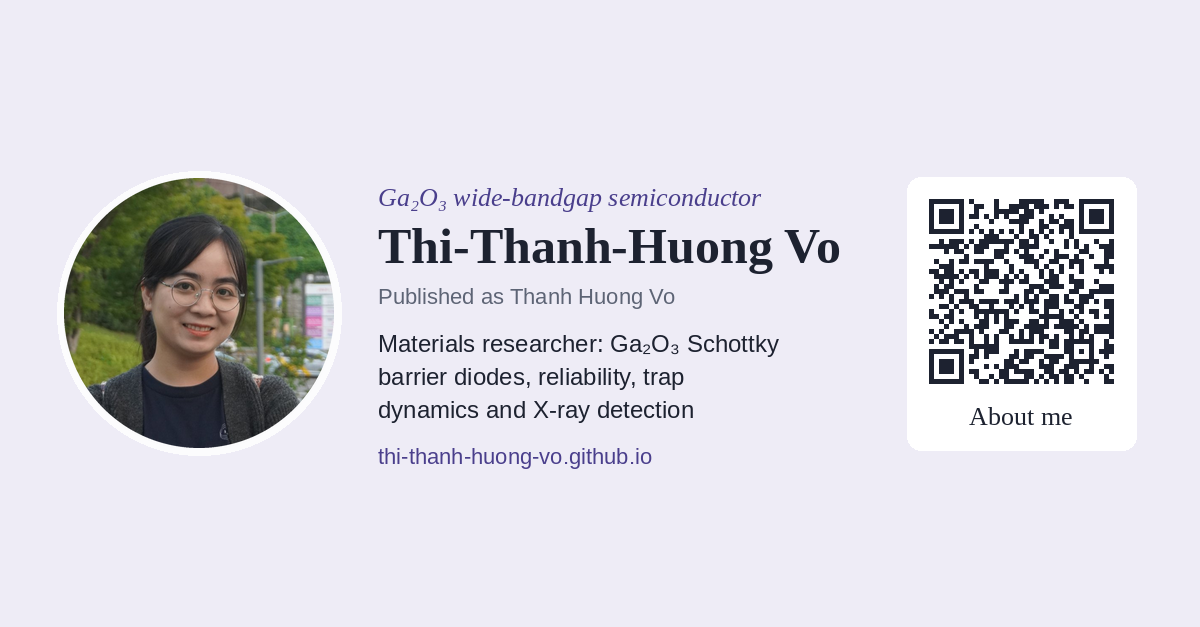
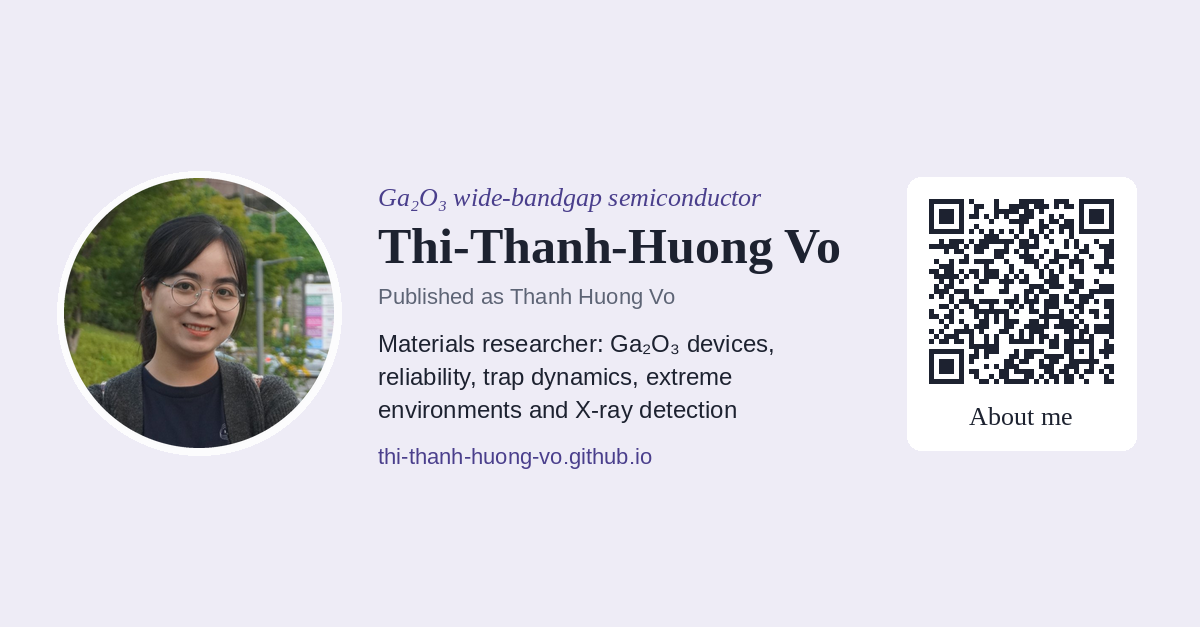
Add files via upload

Changed region(s): [[0.3083, 0.5152, 0.6475, 0.6667]]

diff --git a/index.html b/index.html
@@ -4,12 +4,12 @@
 <meta charset="utf-8">
 <meta name="viewport" content="width=device-width, initial-scale=1, viewport-fit=cover">
 <title>Thi-Thanh-Huong Vo — Ga₂O₃ Researcher</title>
-<meta name="description" content="Thi-Thanh-Huong Vo (published as Thanh Huong Vo) — researcher in β-Ga₂O₃ Schottky barrier diodes, reliability, and X-ray detection. CV, publications, ORCID and LinkedIn.">
+<meta name="description" content="Thi-Thanh-Huong Vo (published as Thanh Huong Vo) — researcher in Ga₂O₃ devices, reliability, extreme environments and X-ray detection. CV, publications, ORCID and LinkedIn.">
 <link rel="canonical" href="https://thi-thanh-huong-vo.github.io/">
 <meta property="og:type" content="website">
 <meta property="og:url" content="https://thi-thanh-huong-vo.github.io/">
 <meta property="og:title" content="Thi-Thanh-Huong Vo | Ga₂O₃ Researcher">
-<meta property="og:description" content="Materials researcher working on Ga₂O₃ Schottky barrier diodes: reliability, trap dynamics, high-temperature behavior and X-ray detection. Publications, talks and contact.">
+<meta property="og:description" content="Materials researcher working on Ga₂O₃ devices: reliability, trap dynamics, device behavior in extreme environments and X-ray detection. Publications, talks and contact.">
 <meta property="og:image" content="https://thi-thanh-huong-vo.github.io/og-image.png">
 <meta property="og:image:width" content="1200">
 <meta property="og:image:height" content="627">
@@ -64,7 +64,7 @@
     margin-inline: calc(50% - 50vw);
     padding-inline: calc(50vw - 50%);
   }
-  header { background: var(--band-head); padding-top: 3.5rem; padding-bottom: 2.5rem; }
+  header { background: var(--band-head); padding-top: 1.25rem; padding-bottom: 2.5rem; }
   .intro { display: flex; align-items: center; gap: 1.75rem; }
   .avatar {
     width: 136px; height: 136px; flex: none; border-radius: 50%;
@@ -122,7 +122,7 @@
   .entry .what .tag { display: inline-block; color: var(--accent); font-size: 0.78rem; }
   .entry .what span { display: block; color: var(--muted); font-size: 0.95rem; }
   @media (max-width: 34rem) {
-    header { padding-top: 2.5rem; }
+    header { padding-top: 1rem; }
     .entry { grid-template-columns: 1fr; gap: 0; }
   }
 
@@ -136,6 +136,13 @@
   .entry .what .talk-title { font-family: "Source Serif 4", Georgia, serif; font-style: italic; color: var(--ink); }
   .entry .what .award { color: var(--accent); font-weight: 600; }
   .news { display: inline-block; margin-top: 0.2rem; font-size: 0.92rem; }
+  .lang-switch { display: flex; justify-content: flex-end; gap: 0.25rem; margin-bottom: 0.75rem; }
+  .lang-switch button {
+    font: inherit; font-size: 0.85rem; font-weight: 600; letter-spacing: 0.04em;
+    padding: 0.3rem 0.7rem; min-height: 36px; border-radius: 6px; cursor: pointer;
+    border: 1px solid var(--rule); background: var(--paper); color: var(--muted);
+  }
+  .lang-switch button[aria-pressed="true"] { background: var(--accent); border-color: var(--accent); color: var(--paper); }
   /* Chặn bôi đen chữ; link và nút vẫn bấm được. Riêng chân trang (email) vẫn bôi đen được. */
   body { -webkit-user-select: none; user-select: none; }
   footer, footer a { -webkit-user-select: text; user-select: text; }
@@ -145,6 +152,10 @@
 <main>
 
 <header>
+  <div class="lang-switch" role="group" aria-label="Language">
+    <button type="button" data-lang="en" aria-pressed="true">EN</button>
+    <button type="button" data-lang="vi" aria-pressed="false">VI</button>
+  </div>
   <div class="intro">
     <img class="avatar" src="photo.jpg" alt="Portrait of Thi-Thanh-Huong Vo" width="136" height="136">
     <div>
@@ -153,7 +164,7 @@
       <p class="pubname">Published as Thanh Huong Vo</p>
     </div>
   </div>
-  <p class="role">Materials researcher working on Ga₂O₃ Schottky barrier diodes: reliability, trap dynamics, high-temperature behavior and X-ray detection.</p>
+  <p class="role">Materials researcher working on Ga₂O₃ devices: reliability, trap dynamics, device behavior in extreme environments and X-ray detection.</p>
   <nav class="links" aria-label="Profiles and contact">
     <a class="btn primary" href="mailto:vohuong2702@gmail.com?subject=CV%20request&amp;body=Dear%20Ms.%20Vo%2C%0A%0AI%20visited%20your%20website%20and%20I%20am%20interested%20in%20your%20research%20on%20Ga2O3%20devices.%20Could%20you%20please%20share%20a%20copy%20of%20your%20CV%20with%20me%3F%0A%0AThank%20you%2C%20and%20best%20regards%2C">
       <svg viewBox="0 0 24 24" fill="none" stroke="currentColor" stroke-width="2" stroke-linecap="round" stroke-linejoin="round" aria-hidden="true"><path d="M14 3H6a2 2 0 00-2 2v14a2 2 0 002 2h12a2 2 0 002-2V9z"/><path d="M14 3v6h6M8 13h8M8 17h5"/></svg>
@@ -176,13 +187,13 @@
 
 <section aria-labelledby="aboutme">
   <h2 id="aboutme">About me</h2>
-  <p class="lead">I grew up in Vietnam wanting to understand how things work, and that question has taken me from a physics classroom in Ho Chi Minh City to semiconductor research abroad. I started as a physics teacher, then chose to move on my own and begin again as a researcher. My work explores how gallium oxide devices behave under heat, electrical stress and radiation. I learn fast, work hard, and rarely stop at the first answer, because I want to become an engineer whose work ends up in real devices.</p>
+  <p class="lead">I grew up in Vietnam wanting to understand how things work, and that question has taken me from a physics classroom in Ho Chi Minh City to semiconductor research abroad. I started as a physics teacher, then chose to move on my own and begin again as a researcher. My work explores how gallium oxide devices behave in extreme environments: extreme temperatures, electrical stress and radiation. I learn fast, work hard, and rarely stop at the first answer, because I want to become an engineer whose work ends up in real devices.</p>
   <p class="lead">Outside the lab, I read to nourish my mind and the way I connect with people, travel to see the world through other eyes, and cook because it teaches me to take care of myself.</p>
 </section>
 
 <section aria-labelledby="research">
   <h2 id="research">Research</h2>
-  <p class="lead">Combining experiment with TCAD simulation, I study the capacitance–voltage behavior of Ga₂O₃ Schottky barrier diodes from 300 to 673 K, probe reverse low-bias conduction and trap dynamics with pulsed current and single-voltage-pulse methods, and apply Ga₂O₃ diodes and thin films as sensitive X-ray detectors.</p>
+  <p class="lead">Combining experiment with TCAD simulation, I study how Ga₂O₃ devices behave across temperatures from 80 to 673 K, probe reverse low-bias conduction and trap dynamics with pulsed current and single-voltage-pulse methods, and apply Ga₂O₃ devices and thin films as sensitive X-ray detectors.</p>
   <p class="lead">Keywords: wide-bandgap semiconductors, reliability, electrical and optoelectronic characterization.</p>
 </section>
 
@@ -325,6 +336,111 @@
 
 </main>
 <script>
+/* EN / VI language switch. Paper titles, journal names, conference names and talk titles stay in English. */
+(function () {
+  var VI = {
+    "Ga₂O₃ wide-bandgap semiconductor": "Bán dẫn vùng cấm rộng Ga₂O₃",
+    "Published as Thanh Huong Vo": "Tên trên các công bố: Thanh Huong Vo",
+    "Materials researcher working on Ga₂O₃ devices: reliability, trap dynamics, device behavior in extreme environments and X-ray detection.": "Nhà nghiên cứu vật liệu về linh kiện Ga₂O₃: độ tin cậy, động học bẫy (trap dynamics), hoạt động trong môi trường khắc nghiệt và phát hiện tia X.",
+    "Request CV": "Yêu cầu CV",
+    "About me": "Về tôi",
+    "I grew up in Vietnam wanting to understand how things work, and that question has taken me from a physics classroom in Ho Chi Minh City to semiconductor research abroad. I started as a physics teacher, then chose to move on my own and begin again as a researcher. My work explores how gallium oxide devices behave in extreme environments: extreme temperatures, electrical stress and radiation. I learn fast, work hard, and rarely stop at the first answer, because I want to become an engineer whose work ends up in real devices.": "Từ bục giảng vật lý ở Thành phố Hồ Chí Minh đến phòng thí nghiệm bán dẫn ở nước ngoài, tôi đã tự mình đi từng bước trên con đường nghiên cứu. Tôi tìm hiểu cách linh kiện gallium oxide ứng xử trong môi trường khắc nghiệt: nhiệt độ cực đoan, ứng suất điện và bức xạ. Học nhanh, chịu khó và không dừng lại ở câu trả lời đầu tiên, tôi mong trở thành một kỹ sư có những nghiên cứu được ứng dụng vào linh kiện thực tế.",
+    "Outside the lab, I read to nourish my mind and the way I connect with people, travel to see the world through other eyes, and cook because it teaches me to take care of myself.": "Ngoài phòng thí nghiệm, sách giúp tôi nuôi dưỡng tâm hồn, những chuyến đi mở rộng tầm nhìn, còn căn bếp dạy tôi yêu thương chính mình.",
+    "Research": "Nghiên cứu",
+    "Combining experiment with TCAD simulation, I study how Ga₂O₃ devices behave across temperatures from 80 to 673 K, probe reverse low-bias conduction and trap dynamics with pulsed current and single-voltage-pulse methods, and apply Ga₂O₃ devices and thin films as sensitive X-ray detectors.": "Kết hợp thực nghiệm với mô phỏng TCAD, tôi nghiên cứu hoạt động của linh kiện Ga₂O₃ trong dải nhiệt độ từ 80 đến 673 K, khảo sát cơ chế dẫn ở phân cực ngược điện áp thấp và động học bẫy bằng phương pháp dòng xung và xung điện áp đơn (single-voltage-pulse), đồng thời ứng dụng linh kiện và màng mỏng Ga₂O₃ làm đầu dò tia X có độ nhạy cao.",
+    "Keywords: wide-bandgap semiconductors, reliability, electrical and optoelectronic characterization.": "Từ khóa: bán dẫn vùng cấm rộng, độ tin cậy, phân tích đặc tính điện và quang điện tử.",
+    "Journal publications": "Bài báo khoa học",
+    "Electrical characterization and power devices": "Đặc tính điện và linh kiện công suất",
+    "X-ray and UV detection": "Phát hiện tia X và tia UV",
+    "1st author": "Tác giả thứ nhất",
+    "Co-first author": "Đồng tác giả thứ nhất",
+    "Co-author": "Đồng tác giả",
+    "Review": "Bài tổng quan",
+    "Full and up-to-date list on": "Danh sách đầy đủ và cập nhật nhất trên",
+    "Conference proceedings": "Kỷ yếu hội nghị",
+    "Talks, presentations and awards": "Báo cáo hội nghị và giải thưởng",
+    "Oral": "Báo cáo miệng",
+    "Poster": "Poster",
+    "Tokyo, Japan": "Tokyo, Nhật Bản",
+    "Jeju, Republic of Korea": "Jeju, Hàn Quốc",
+    "Wrocław, Poland": "Wrocław, Ba Lan",
+    "Busan, Republic of Korea": "Busan, Hàn Quốc",
+    "Republic of Korea": "Hàn Quốc",
+    "Best oral presentation award": "Giải Báo cáo miệng xuất sắc nhất",
+    "Outstanding Young Researcher Award": "Giải Nhà nghiên cứu trẻ xuất sắc",
+    "Read the news (KAU Channel K)": "Đọc tin tức (KAU Channel K)",
+    "Education": "Học vấn",
+    "M.Sc., Materials Science and Engineering": "Thạc sĩ Khoa học và Kỹ thuật Vật liệu",
+    ", Korea Aerospace University, Republic of Korea": ", Đại học Hàng không Vũ trụ Hàn Quốc (Korea Aerospace University), Hàn Quốc",
+    "Major in drone materials and components · GPA 4.0/4.5": "Chuyên ngành vật liệu và linh kiện drone · GPA 4.0/4.5",
+    "Thesis: Investigation of the temperature dependence of Ga₂O₃ Schottky barrier diode characteristics (C-V-T and experiment–simulation correlation at high temperature)": "Luận văn: Khảo sát sự phụ thuộc nhiệt độ của các đặc tính diode Schottky Ga₂O₃ (C-V-T và tương quan giữa thực nghiệm và mô phỏng ở nhiệt độ cao)",
+    "B.Ed., Physics Teacher Education": "Cử nhân Sư phạm Vật lý",
+    ", Ho Chi Minh City University of Education, Vietnam": ", Trường Đại học Sư phạm Thành phố Hồ Chí Minh, Việt Nam",
+    "GPA 3.25/4.0 · Thesis: Time evolution of nuclear wave-packets in vibrating molecules": "GPA 3.25/4.0 · Khóa luận: Sự tiến triển theo thời gian của bó sóng hạt nhân trong phân tử dao động",
+    "Experience": "Kinh nghiệm",
+    "2022 – now": "2022 – nay",
+    "Researcher": "Nghiên cứu viên",
+    ", High-tech Institute, Nguyen Tat Thanh University, Vietnam": ", Viện Kỹ thuật Công nghệ cao, Trường Đại học Nguyễn Tất Thành, Việt Nam",
+    "Physics and mathematics teacher": "Giáo viên Vật lý và Toán",
+    ", high schools and education centers in Ho Chi Minh City, Vietnam": ", các trường THPT và trung tâm giáo dục tại Thành phố Hồ Chí Minh, Việt Nam",
+    "Vo Truong Toan and Gia Dinh High Schools, Giang Hang Education Center, Soroban Linear Thinking Center; co-creator and content writer at Trang Education Video": "Trường THPT Võ Trường Toản và THPT Gia Định, Giang Hang Education Center, Soroban Linear Thinking Center; đồng sáng tạo và biên soạn nội dung tại Trang Education Video",
+    "Teaching taught me to explain complex physics clearly, a skill I now use in every talk and paper.": "Những năm đứng lớp đã dạy tôi cách giải thích vật lý phức tạp một cách rõ ràng, kỹ năng tôi dùng trong mọi bài báo cáo và bài báo.",
+    "Skills": "Kỹ năng",
+    "Device simulation": "Mô phỏng linh kiện",
+    "Synopsys Sentaurus TCAD: device modeling and simulated C-V characteristics compared with experiment": "Synopsys Sentaurus TCAD: mô hình hóa linh kiện và mô phỏng đặc tính C-V, so sánh với thực nghiệm",
+    "Electrical characterization": "Phân tích đặc tính điện",
+    "Keithley 4200A-SCS: I-V, C-V-T and pulsed I-V, in dark and under illumination": "Keithley 4200A-SCS: I-V, C-V-T và pulsed I-V, trong tối và dưới chiếu sáng",
+    "Temperature-dependent measurement": "Đo lường phụ thuộc nhiệt độ",
+    "80–673 K using Nextron micro probe systems (ceramic heater and liquid-nitrogen-cooled stages) under vacuum, 10⁻⁴–10⁻⁵ hPa": "80–673 K với hệ micro probe Nextron (bệ gia nhiệt gốm và bệ làm lạnh bằng nitơ lỏng) trong chân không 10⁻⁴–10⁻⁵ hPa",
+    "Optoelectronic and radiation response": "Đáp ứng quang điện và bức xạ",
+    "X-ray response; wavelength-dependent photoresponse from 200 to 1200 nm with a xenon source, monochromator and calibrated power meter": "Đáp ứng tia X; đáp ứng quang theo bước sóng từ 200 đến 1200 nm với nguồn sáng xenon, máy đơn sắc và máy đo công suất đã hiệu chuẩn",
+    "Data analysis": "Phân tích dữ liệu",
+    "Languages": "Ngôn ngữ",
+    "Vietnamese (native), English": "Tiếng Việt (bản ngữ), tiếng Anh",
+    "Gyeonggi, Republic of Korea ·": "Gyeonggi, Hàn Quốc ·"
+  };
+  var MAIL_VI = 'mailto:vohuong2702@gmail.com?subject=' + encodeURIComponent('Xin CV') + '&body=' +
+    encodeURIComponent('Chào chị Hương,\n\nTôi đã xem trang web của chị và quan tâm đến các nghiên cứu về linh kiện Ga2O3. Chị có thể gửi giúp tôi bản CV được không?\n\nCảm ơn chị và trân trọng,');
+  var current = 'en';
+  var root = document.querySelector('main');
+  function walk(fn) {
+    var w = document.createTreeWalker(root, NodeFilter.SHOW_TEXT, null), n;
+    while ((n = w.nextNode())) fn(n);
+  }
+  function apply(lang) {
+    current = lang;
+    walk(function (n) {
+      if (n.__en === undefined) n.__en = n.nodeValue;
+      var key = n.__en.replace(/\s+/g, ' ').trim();
+      if (!key) return;
+      if (lang === 'vi' && VI[key]) {
+        var lead = n.__en.match(/^\s*/)[0], tail = n.__en.match(/\s*$/)[0];
+        n.nodeValue = lead + VI[key] + tail;
+      } else {
+        n.nodeValue = n.__en;
+      }
+    });
+    document.documentElement.lang = lang;
+    var req = document.querySelector('.btn.primary');
+    if (req) {
+      if (!req.dataset.en) req.dataset.en = req.getAttribute('href');
+      req.setAttribute('href', lang === 'vi' ? MAIL_VI : req.dataset.en);
+    }
+    document.querySelectorAll('.lang-switch button').forEach(function (b) {
+      b.setAttribute('aria-pressed', b.dataset.lang === lang ? 'true' : 'false');
+    });
+    try { localStorage.setItem('lang', lang); } catch (e) {}
+  }
+  document.querySelectorAll('.lang-switch button').forEach(function (b) {
+    b.addEventListener('click', function () { apply(b.dataset.lang); });
+  });
+  window.__applyLang = function () { apply(current); };
+  var saved = 'en';
+  try { saved = localStorage.getItem('lang') || 'en'; } catch (e) {}
+  apply(saved === 'vi' ? 'vi' : 'en');
+})();
+</script>
+<script>
 /* Publications are read from publications.txt. Missing title / journal / year are fetched from Crossref by DOI.
    If anything fails, the list already written in this page stays visible. */
 (function () {
@@ -391,7 +507,7 @@
       });
       frag.appendChild(ol);
     });
-    if (frag.childNodes.length) { box.innerHTML = ''; box.appendChild(frag); }
+    if (frag.childNodes.length) { box.innerHTML = ''; box.appendChild(frag); if (window.__applyLang) window.__applyLang(); }
   }
   fetch('publications.txt', { cache: 'no-cache' })
     .then(function (r) { if (!r.ok) throw new Error(r.status); return r.text(); })
